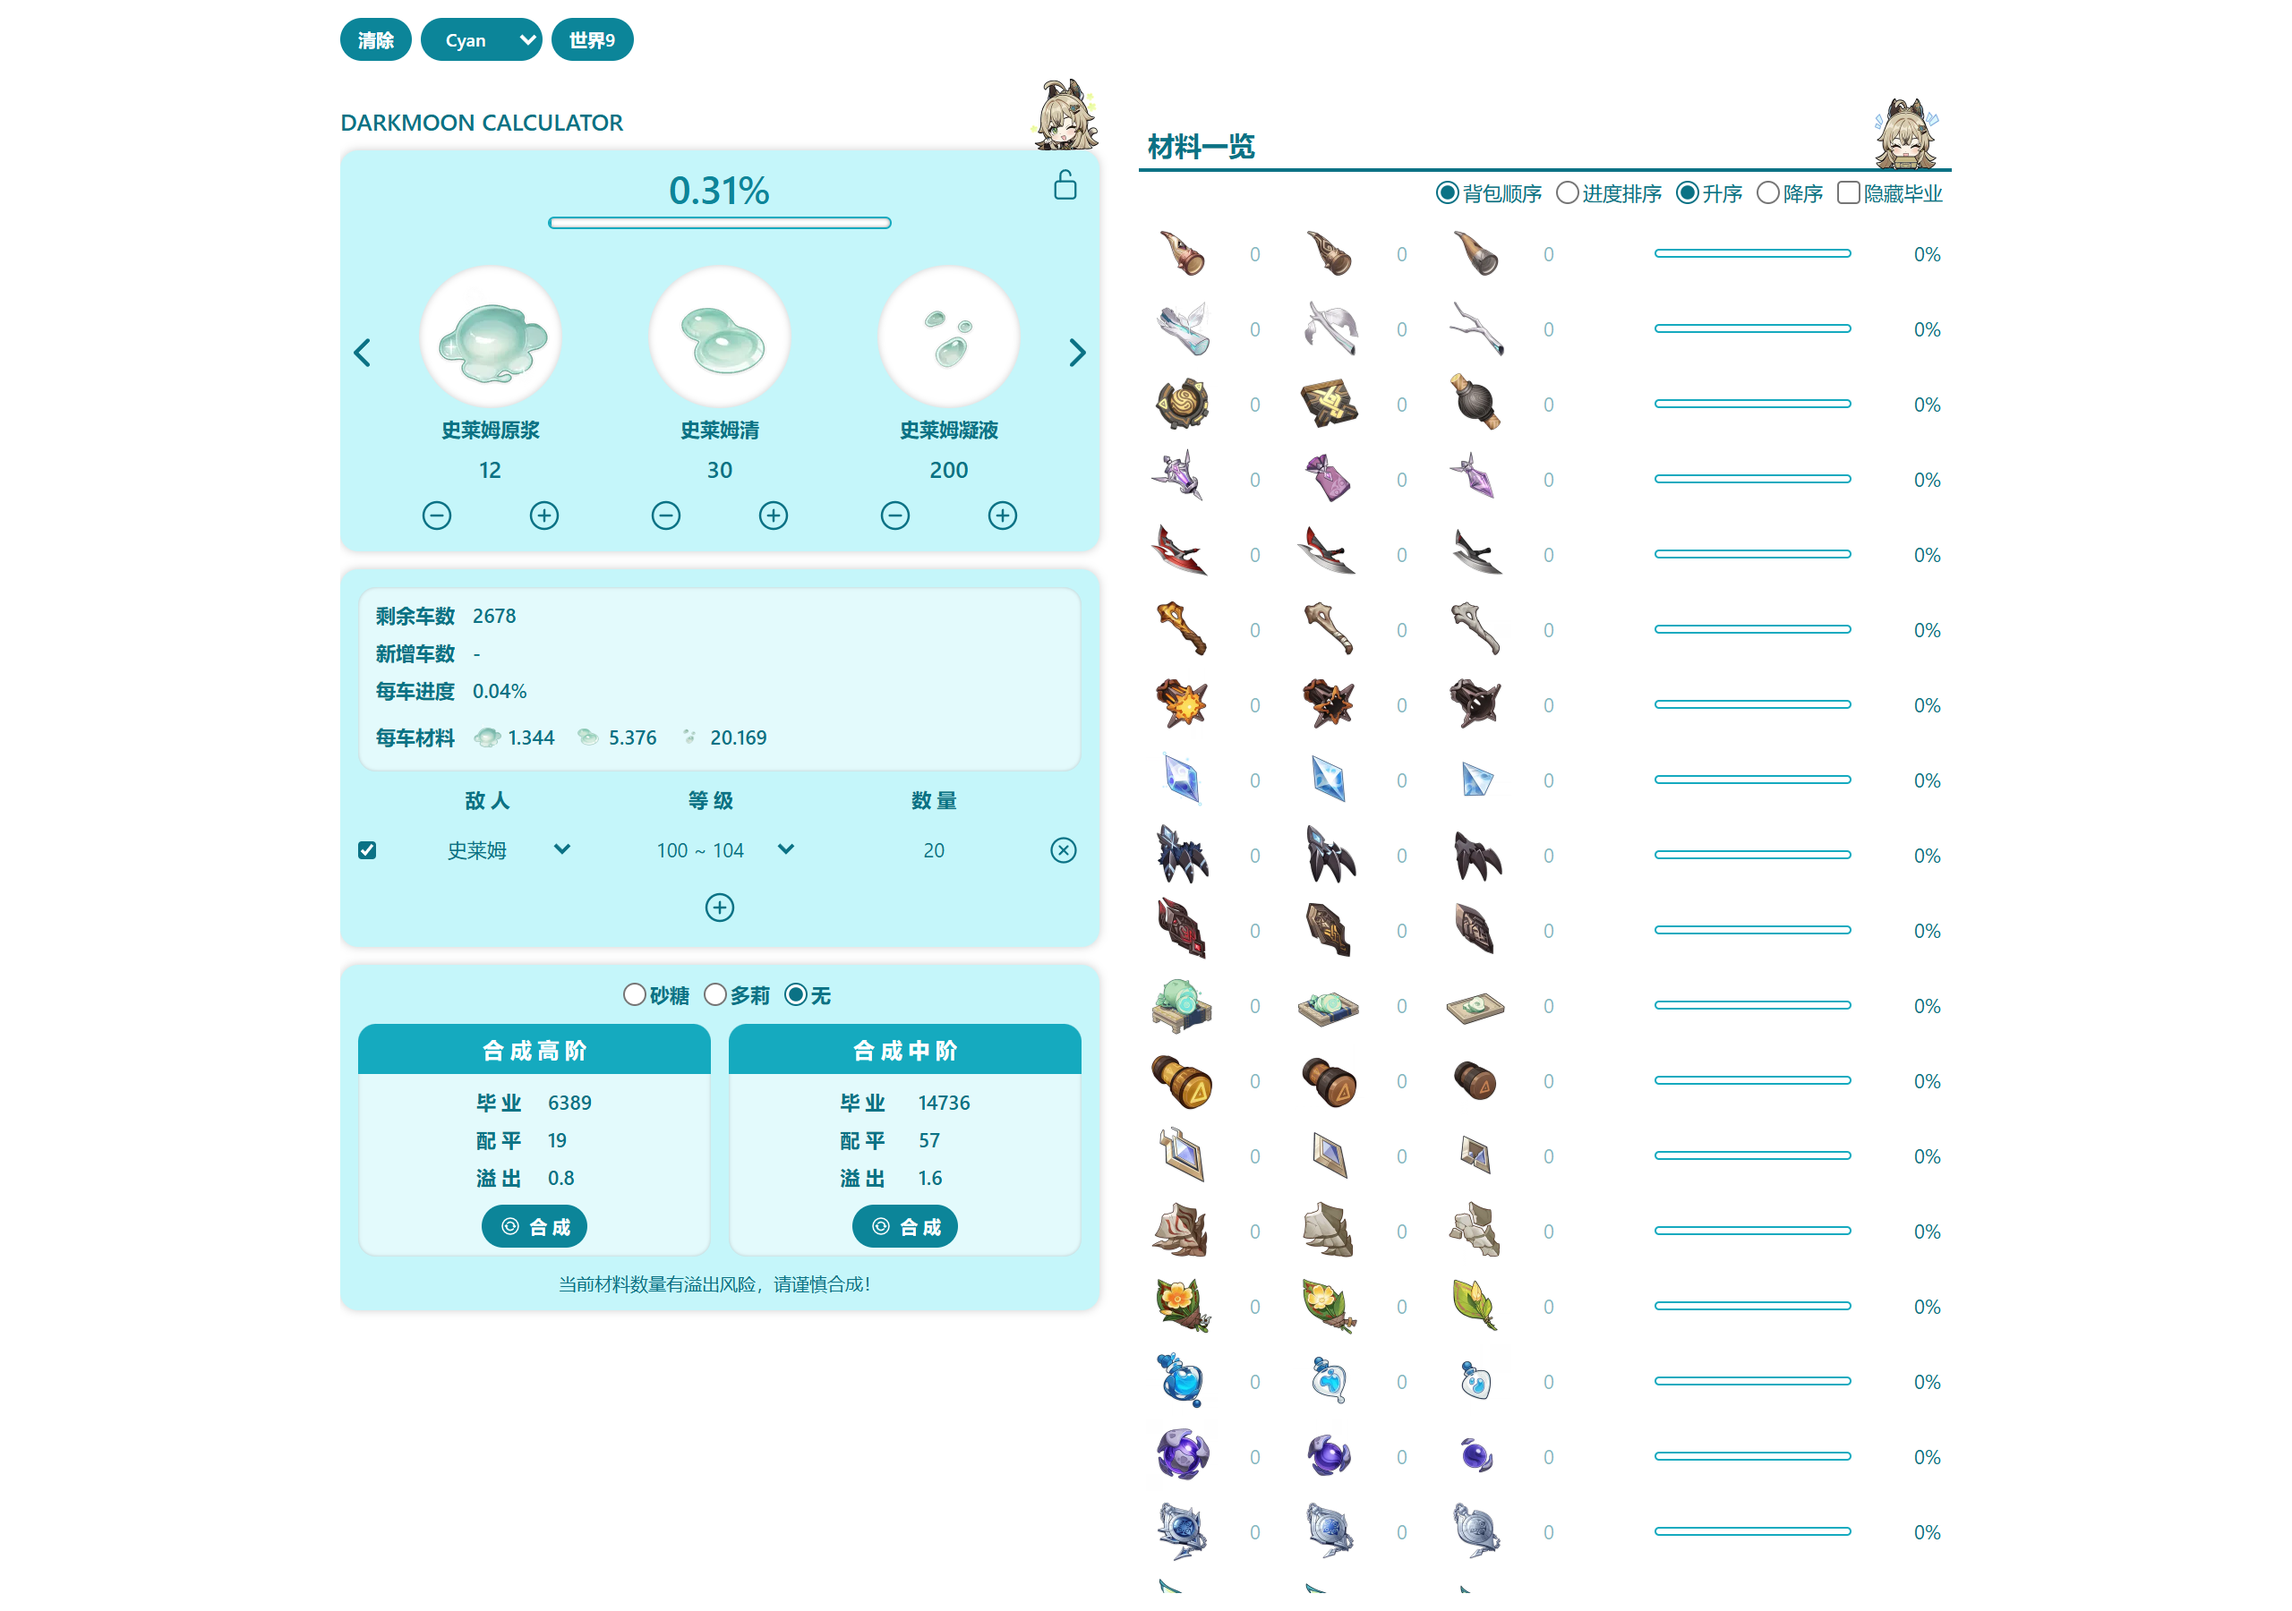
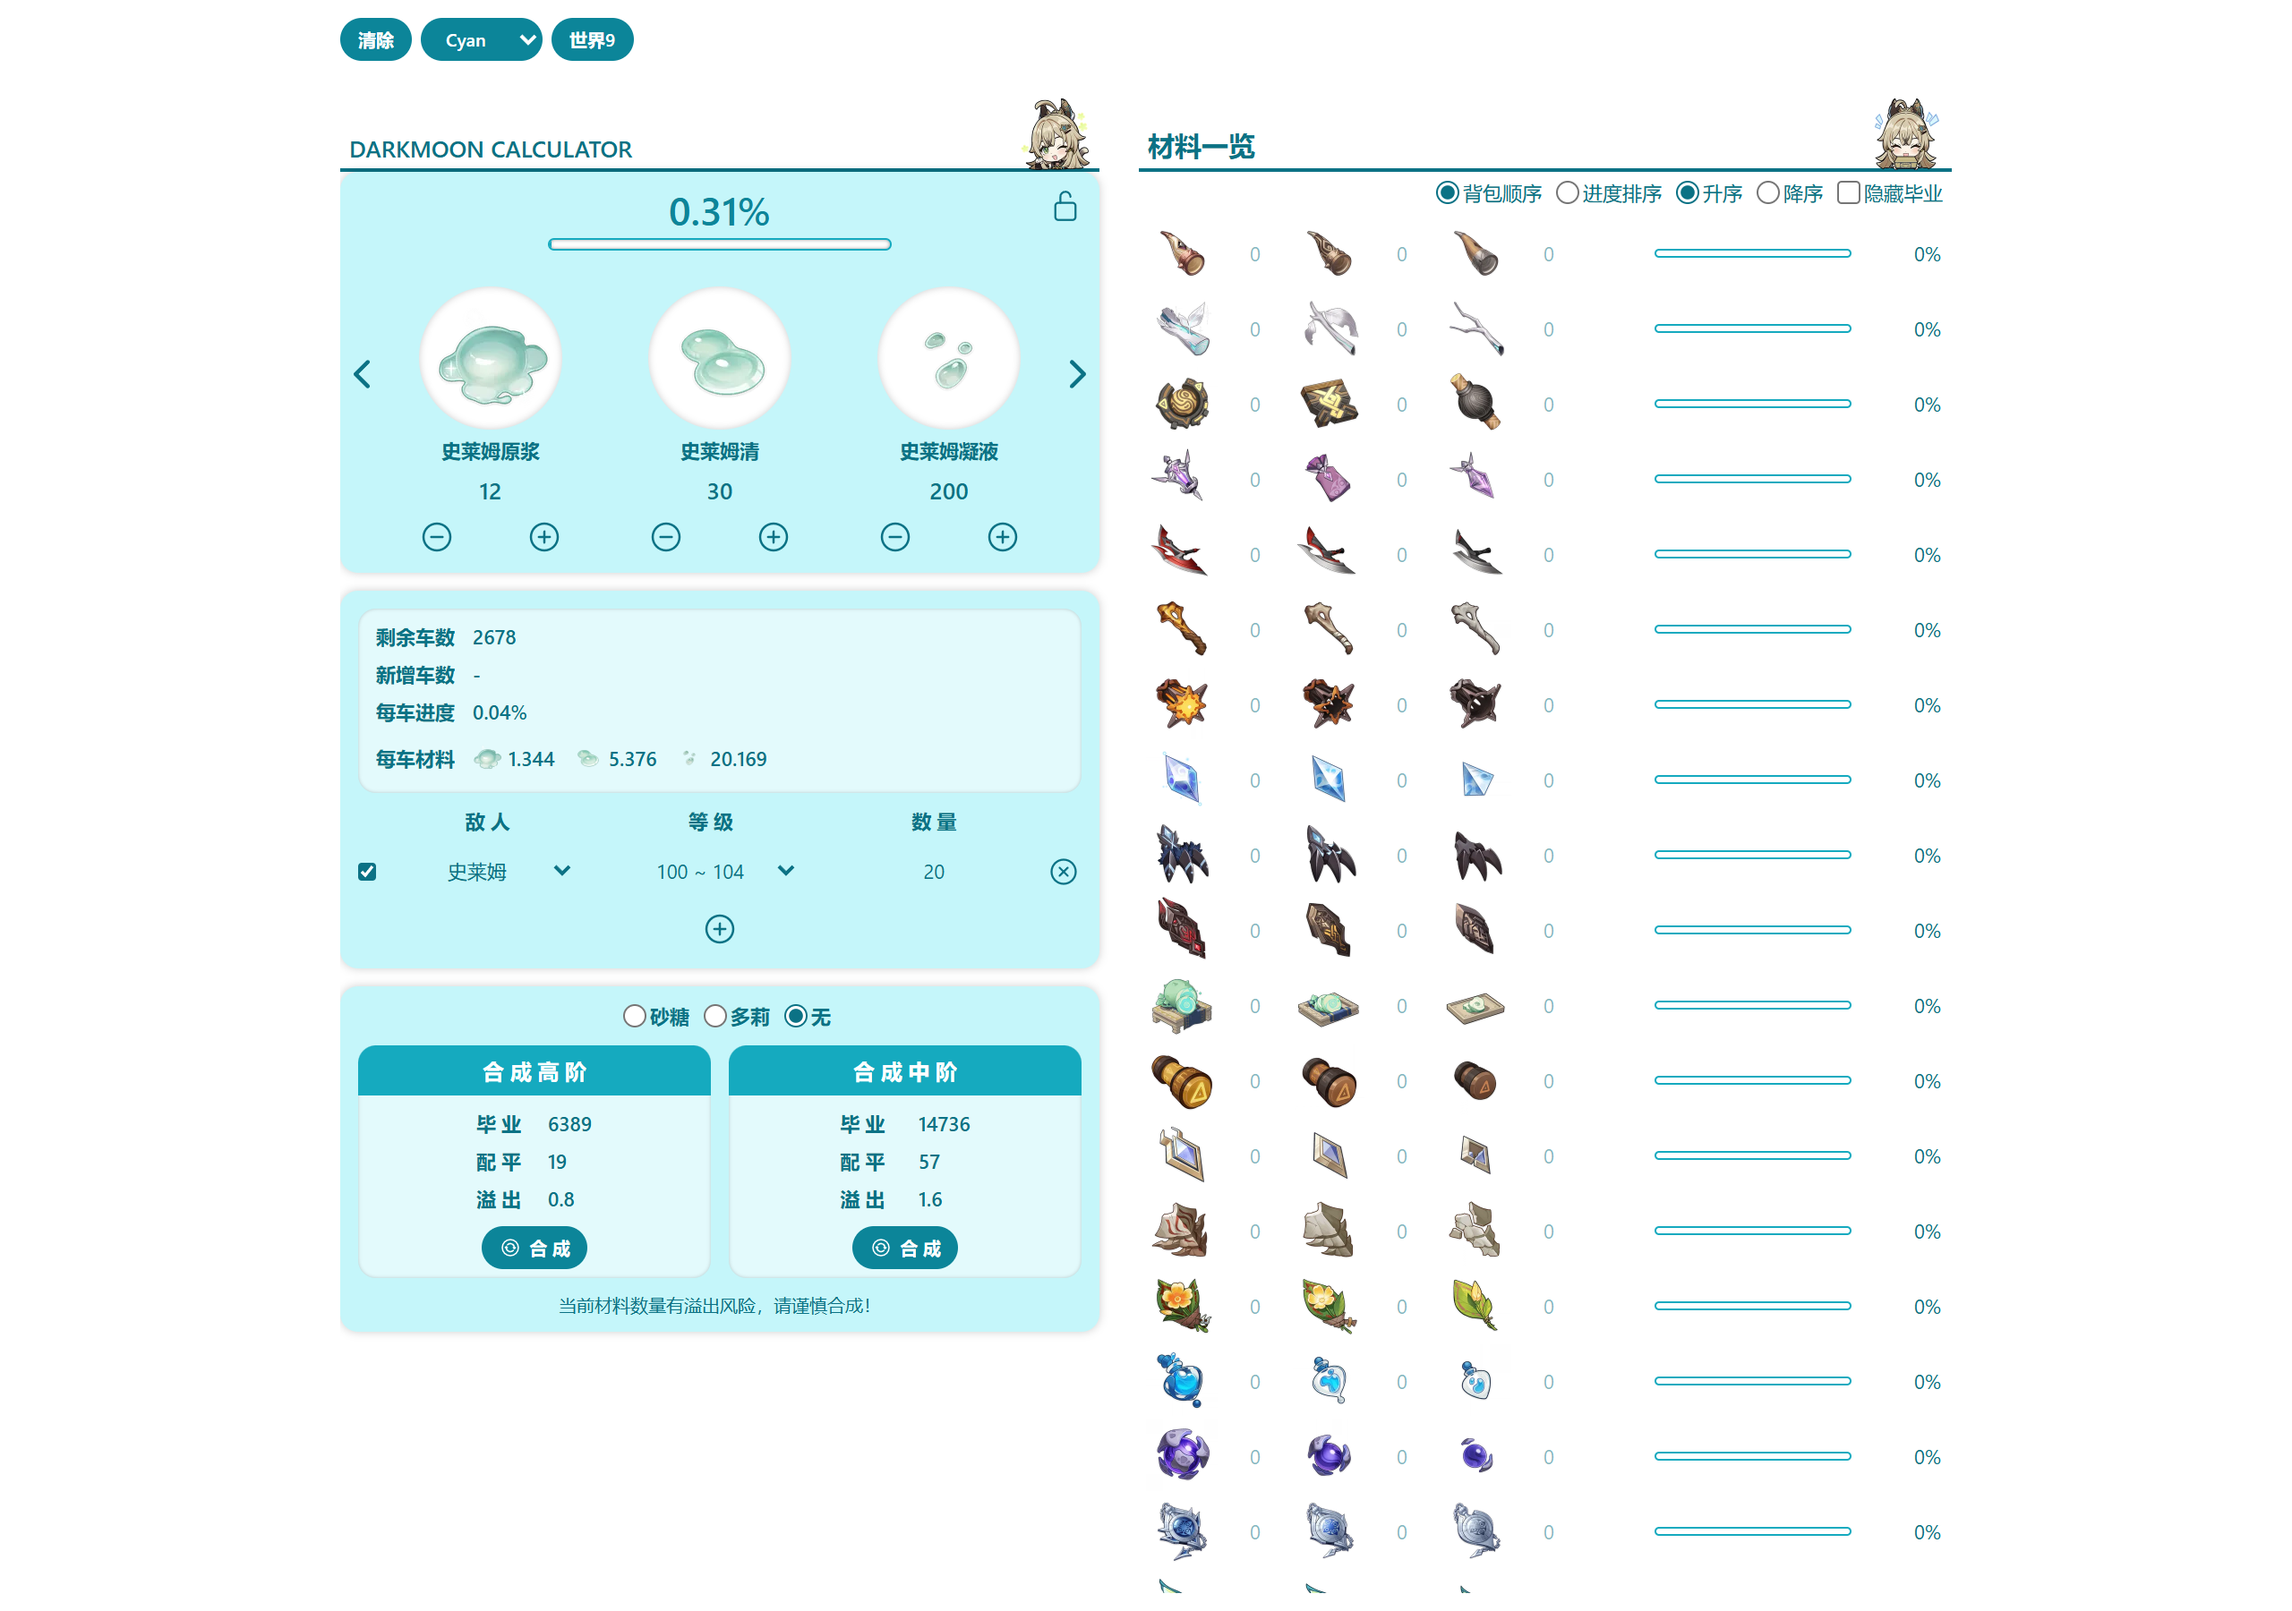
左右两栏表头对齐
左栏标题块原本是普通 div（高 40px，h1 带 my-10px），右栏「材料一览」的 h2 是
p-5px + border-b-2 + 40px 图标（高 52px），导致左面板顶部比右侧横线高 10px。

- 把左侧标题改成与右侧表头同构的 header：同样 5px 内边距、2px 下划线、40px 图标
- 两条下划线落在同一水平线，下面两个内容区也从同一 Y 开始
- 实测：两个表头高度都是 52px、底边都在 y=96，左侧面板顶部也是 96（原为 84）

Changed region(s): [[0.125, 0.0311, 0.5, 0.84]]

diff --git a/src/App.tsx b/src/App.tsx
@@ -28,16 +28,18 @@ export default function App() {
       <main className="mx-auto flex min-h-0 w-full max-w-[920px] flex-col gap-[16px] px-[10px] pb-[20px] min-[860px]:flex-1 min-[860px]:flex-row min-[860px]:pb-[10px]">
         {/* 左：录入与统计，宽屏下自己滚动（隐藏滚动条，靠滚轮/键盘滚动） */}
         <div className="scroll-hidden min-w-0 min-[860px]:w-[430px] min-[860px]:shrink-0 min-[860px]:overflow-y-auto min-[860px]:pr-[6px]">
-          <div className="flex items-end justify-between">
-            <h1 className="my-[10px] mr-[10px] text-[13px] font-semibold">
-              DARKMOON CALCULATOR
-            </h1>
+          {/*
+            表头结构与右侧「材料一览」的 h2 保持一致（同样的内边距、下划线、40px 图标），
+            这样两侧的下划线在同一条水平线上，下面的面板和列表也从同一 Y 开始。
+          */}
+          <header className="flex items-end justify-between border-b-2 border-c9 p-[5px]">
+            <h1 className="text-[13px] font-semibold">DARKMOON CALCULATOR</h1>
             <img
               src={MASCOT_IMAGE.title}
               alt="绮良良超级可爱表情包"
-              className="w-[40px]"
+              className="w-[40px] translate-y-[15%]"
             />
-          </div>
+          </header>
 
           <MaterialPanel />
           <EnemySection />

diff --git a/README.md b/README.md
@@ -408,6 +408,14 @@ Windows 上编辑器写临时文件时被文件监视器锁住。`vite.config.ts
   `::-webkit-scrollbar { display: none }`），左栏用它，滚动能力保留（滚轮/触控板/键盘照常）。
 - 右栏列表仍保留细滚动条：那里是长列表，需要位置提示。
 
+### 2026-11-20 · 左右表头对齐
+
+- 左栏标题块原来是个普通 `div`（高 40px，`h1` 带 `my-[10px]`），而右栏「材料一览」的 `h2`
+  是 `p-[5px] + border-b-2 + 40px 图标`（高 52px），导致左面板顶部比右侧横线高了 10px。
+- 把左侧标题改成与右侧表头同构的 `<header>`（同样 5px 内边距、2px 下划线、40px 图标），
+  两条下划线自然落在同一条水平线上，下面的面板和列表也从同一 Y 开始。
+- 实测：两个表头高度都是 52px、底边都在 y=96，左侧面板顶部也是 96（原来是 84）。
+
 ### 2026-11-20 · 材料一览高亮当前材料
 
 - 之前 53 行里看不出「正在编辑哪一个」，现在当前行用主题浅色背景（`bg-c1`）标出，并带 `aria-current`。
